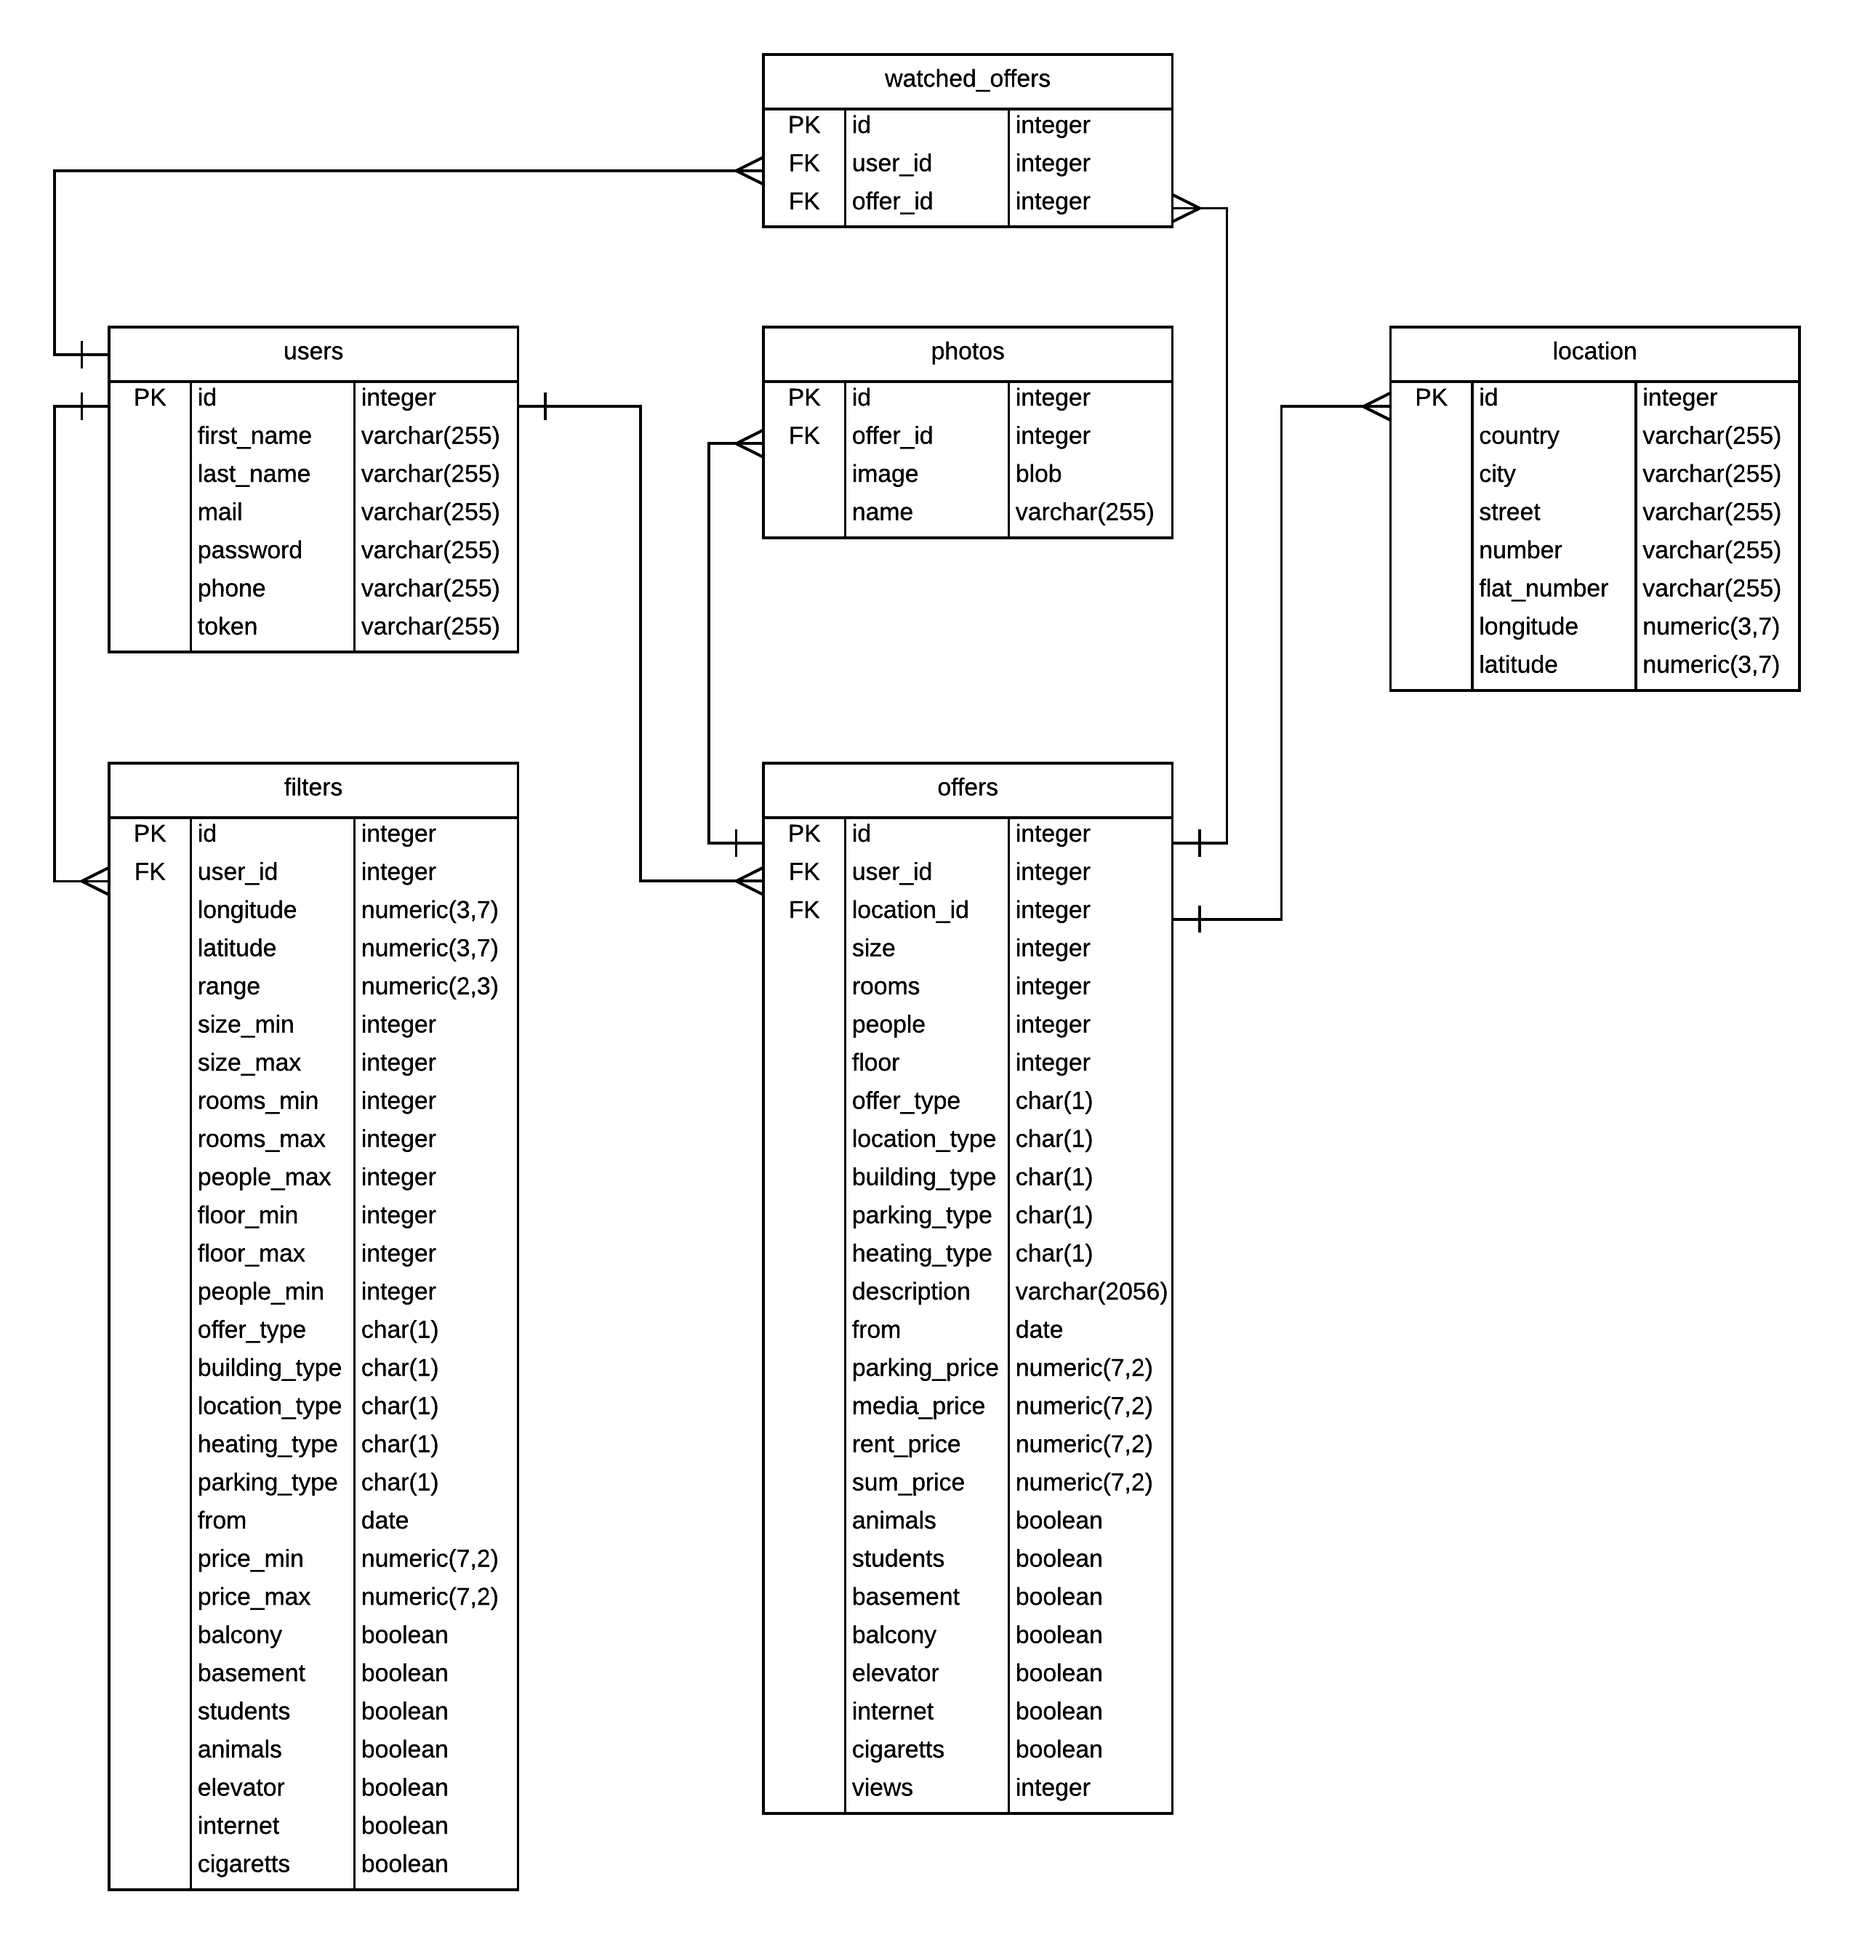
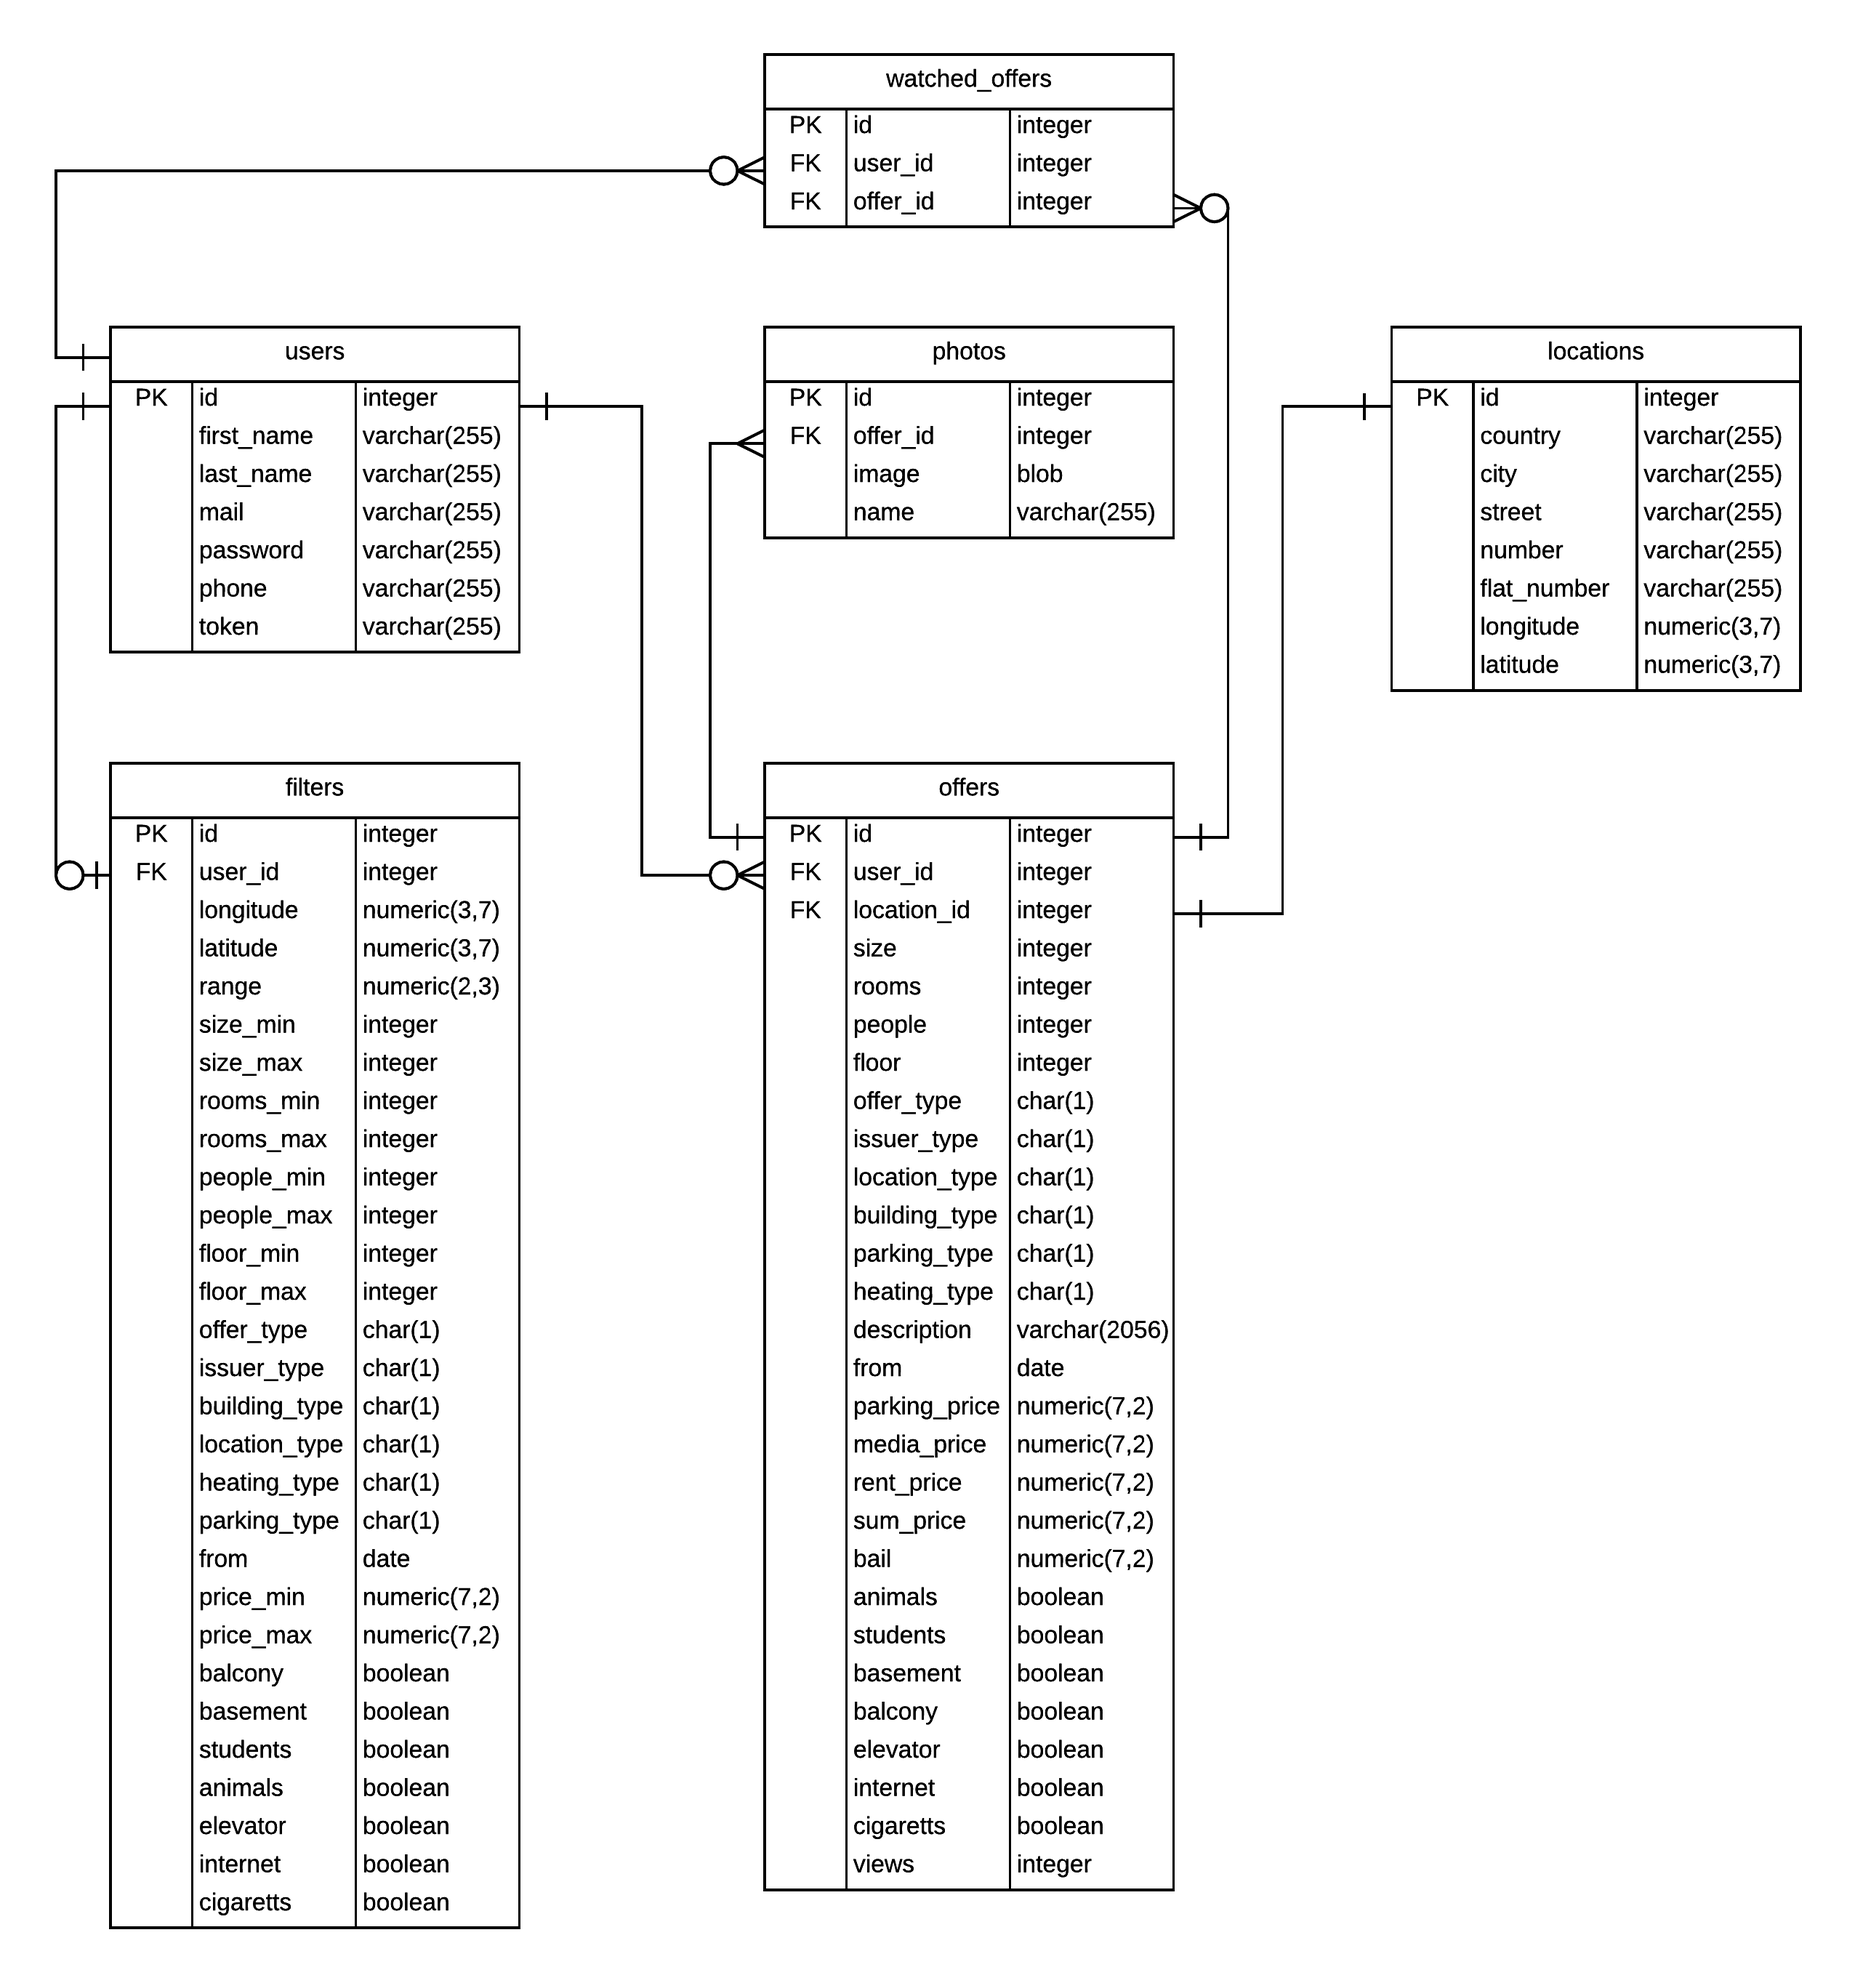
up

diff --git a/rozdzial1.tex b/rozdzial1.tex
@@ -5,27 +5,28 @@
 
 \section{Cel pracy}
 \label{sec:celPracy}
-Celem pracy jest zaprojektowanie oraz implementacja aplikacji internetowej umożliwiającej wyszukiwanie oraz dodawanie ogłoszeń dotyczących wynajmu oraz sprzedaży nieruchomości. Tworzony system będzie umożliwiał osobom szukającym lokum w danym mieście przeglądanie ofert oraz korzystanie z szerokiego wachlarza filtrów ułatwiających szukanie idealnego mieszkania lub domu. Aplikacja będzie również oferowała osobom posiadającym nieruchomości, stworzenie ogłoszenia korzystając z prostego i intuicyjnego kreatora ogłoszeń. Ponadto system będzie oferował zarejestrowanym użytkownikom możliwość otrzymywania  spersonalizowanych powiadomień w przypadku pojawienia się nowych ogłoszeń, które spełniają wymagane przez użytkownika kryteria. Dodatkowo aplikacja będzie umożliwiała nawiązanie kontaktu z osobą, która zamieściła ogłoszenie w serwisie. Ze strony technicznej moim celem jest stworzenie prostego w obsłudze i intuicyjnego serwisu, który będzie zrozumiały również dla mniej zaawansowanych użytkowników komputerów, zachowując jednakże określone wymagania dotyczące ogłoszeń, żeby umożliwić użytkownikom dokładne wyszukiwanie ofert. Największym atutem aplikacji jest sposób prezentacji ogłoszeń klientowi w sposób zupełnie odmienny niż realizują to najpopularniejsze obecnie aplikacje tego typu. Moim celem jest zaprezentować użytkownikowi dostępne ogłoszenia jako obiekty umieszczone nie jak zazwyczaj na liście lecz na mapie konkretnego miasta. Dzięki takiem sposobowi prezentacji, użytkownik w mgnieniu oka może ocenić czy dana lokalizacja jest w dogodnym dla niego miejscu czy też nie.
+Celem pracy jest zaprojektowanie oraz implementacja aplikacji internetowej umożliwiającej wyszukiwanie oraz dodawanie ogłoszeń dotyczących wynajmu oraz sprzedaży nieruchomości. Tworzony system będzie umożliwiał osobom szukającym lokum w danym mieście przeglądanie ofert oraz korzystanie z szerokiego wachlarza filtrów ułatwiających szukanie idealnego mieszkania lub domu. Aplikacja będzie również oferowała osobom posiadającym nieruchomości, stworzenie ogłoszenia korzystając z prostego i intuicyjnego kreatora ogłoszeń. Ponadto system będzie oferował zarejestrowanym użytkownikom możliwość otrzymywania  spersonalizowanych powiadomień. W przypadku pojawienia się nowych ogłoszeń, które spełniają wymagane przez użytkownika kryteria użytkownik otrzyma stosowną wiadomość poprzez pocztę elektroniczną. Dodatkowo aplikacja będzie umożliwiała nawiązanie kontaktu z osobą, która zamieściła ogłoszenie w serwisie. Ze strony technicznej moim celem jest stworzenie prostego w obsłudze i intuicyjnego serwisu, który będzie zrozumiały również dla mniej zaawansowanych użytkowników komputerów, zachowując jednak określone wymagania dotyczące ogłoszeń, żeby umożliwić użytkownikom dokładne wyszukiwanie ofert. Największym atutem aplikacji jest sposób prezentacji ogłoszeń klientowi w sposób zupełnie odmienny niż realizują to najpopularniejsze obecnie aplikacje tego typu. Moim celem jest zaprezentować użytkownikowi dostępne ogłoszenia jako obiekty umieszczone nie jak zazwyczaj na liście lecz na mapie konkretnego miasta. Dzięki takiem sposobowi prezentacji, użytkownik w mgnieniu oka może ocenić czy dana lokalizacja jest w dogodnym dla niego miejscu czy też nie.
 
 %---------------------------------------------------------------------------
 
 \section{Zawartość pracy}
 \label{sec:zawartoscPracy}
-Struktura pracy jest następująca:
+Struktura pracy jest następująca: 
 \begin{itemize}
 \item Pierwszy rozdział stanowi wprowadzanie, definiując przedmiot pracy, jej zawartość,  motyw wyboru tematu oraz analizę podobnych serwisów. 
-\item Rozdział drugi przedstawia wymagania biznesowe oraz funkcjonalne i niefunkcjonalne które zdefiniowałem przy procesie projektowania aplikacji. Znajduję się w nim także słownik pojęć 
+\item Rozdział drugi przedstawia wymagania biznesowe oraz funkcjonalne i niefunkcjonalne które zostały zdefiniowane przy procesie projektowania aplikacji. Znajduje się w nim także słownik pojęć 
 \item Rozdział trzeci jest szczegółową analizą przeprowadzoną na podstawie wymagań zdefiniowanych w poprzednim rozdziale. 
-\item W rozdziale czwartym są przedstawione konkretne rozwiązania z dziedziny projektowania aplikacji. Opisana jest architektura oraz koncept intefejsu graficznego oraz restowego. W tym rozdziale zawarte są również założenia z dziedziny bezpieczeństwa systemu. 
-\item W piątym rozdziale jest opisane działanie funkcjonalności dostarczonej aplikacji. 
-\item Szósty rozdział stanowi podsumowanie pracy w którym są zawarte wnioski.
+\item W rozdziale czwartym są przedstawione konkretne rozwiązania z dziedziny projektowania aplikacji. Opisana jest architektura oraz koncept intefejsu graficznego oraz restowego. 
+\item Rozdział piąty zawiera dokładny opis zastosowanych technologi oraz narzędzi. W tym rozdziale zawarte są również założenia z dziedziny bezpieczeństwa systemu.
+\item W szóstym rozdziale jest opisane działanie funkcjonalności dostarczonej aplikacji. 
+\item Siódmy rozdział stanowi podsumowanie pracy w którym są zawarte wnioski.
 \end{itemize}
 
 %---------------------------------------------------------------------------
 
 \section{Analiza podobnych serwisów}
 \label{sec:analizaSerwisow}
-Powszechność internetu sprawiła, że obecnie niewiele osób próbuje znaleźć mieszkanie lub dom do wynajęcia za pomocą innych mediów. Wraz z powszechnością internetu oraz popytem na mieszkania, towarzyszącym miastom akademickim, powstało wiele serwisów oferujących możliwość dodawania oraz przeglądania ogłoszeń na rynku nieruchomości.\\
+Powszechność internetu sprawiła, że obecnie niewiele osób próbuje znaleźć mieszkanie lub dom do wynajęcia za pomocą innych mediów\cite{tns}. Wraz z powszechnością internetu oraz popytem na mieszkania, towarzyszącym miastom akademickim, powstało wiele serwisów oferujących możliwość dodawania oraz przeglądania ogłoszeń na rynku nieruchomości.\\
 Ze względu na koszt zamieszczania ogłoszeń można podzielić aplikację na dwie grupy:
 \begin{itemize}
 \item Serwisy płatne, najczęsciej agencje zajmujące się wynajmowaniem mieszkań. Umieszczenie ogłoszenia w takim serwisie wiąże się z zapłaceniem agencji sporej ilości pieniędzy.

diff --git a/rozdzial3.tex b/rozdzial3.tex
@@ -28,6 +28,39 @@ Zazwyczaj oferty w serwisach ogłoszeniowych są wyświetlane jako lista. Jest t
 
 \section{Interfejs restowy}
 \label{sec:interfejsRestowy}
+Ruby on Rails udostępnia bogate wsparcie dla interfejsu restowego. Jeżeli zachowane są wzorce nazewnictwa i struktury katalogów, wtedy w myśl zasady "convention over configuration" nie jest wymagana żadna dodatkowa konfiguracja aplikacji lub serwera.\\
+Identyfikacja zasobów:
+\begin{itemize}
+\item user - użytkownik
+\item offer - oferta
+\item filter - filtr
+\item photo - zdjęcie
+\item location - lokalizacja
+\item watched\_offer - obserwowana oferta
+\end{itemize}
+Przykładowy format URI pozwalający na dostęp do zasobu:
+\begin{itemize}
+\item HTTP POST /users - żądania utworzenie użytkownika
+\item HTTP GET /users - żadanie wyświetlenia wszystkich użytkowników
+\item HTTP GET /users/4 - żądanie wyświetlenia użytkownika o id 4
+\item HTTP PUT /users/4 - żądanie zakutalizowania użytkownika o id 4
+\item HTTP DELETE /users/4 - żadanie usunięciąa użytkownika o id 4
+\end{itemize}
+Przykładowa reprezentacja zasobu user w formacie JSON:
+\begin{itemize}
+\item \begin{lstlisting}
+{
+  "id": 1,
+  "first_name" : "Piotr",
+  "last_name" : "Konsek",
+  "password" : "HBFlknadf7a09*&(^dsji",
+  "mail" : "mail@mail.com",
+  "created_at" : "2015-10-27T23:49:08.694+01:00",
+  "updated_at" : "2015-11-21T18:08:16.165+01:00",
+  "token" : "_pFotE3z5q7UvARkojvdYg"
+}
+\end{lstlisting}
+\end{itemize}
 
 \section{Opis struktury danych oferty}
 \label{sec:strukturaOferty}
@@ -38,21 +71,26 @@ Kluczową strukturą dla poprawnego działania całego programu jest struktura o
 \item size - rozmiar mieszkania w metrach kwadratowych
 \item rooms - liczba pokoi
 \item people - liczba osób mogących mieszkać w danej lokalizacji
-\item floor - piętro budynko
+\item floor - piętro budynku
 \item views - liczba wyświetleń oferty
 \end{itemize}
 \item Znakowy
 \begin{itemize}
 \item offer\_type - typ oferty
 \begin{itemize}
-\item O - od właściciela
-\item A - od agencji mieszkaniowej
+\item R - oferta wynajmu
+\item S - oferta kupna
 \end{itemize}
 \item location\_type - typ lokalizacji 
 \begin{itemize}
 \item H - dom
 \item F - mieszkanie
 \item R - pokój
+\end{itemize}
+\item issuer\_type - typ wystawcy ogłoszenia 
+\begin{itemize}
+\item O - właściciel, osoba prywatna
+\item A - agencja mieszkaniowa
 \end{itemize}
 \item building\_type - typ budynku
 \begin{itemize}
